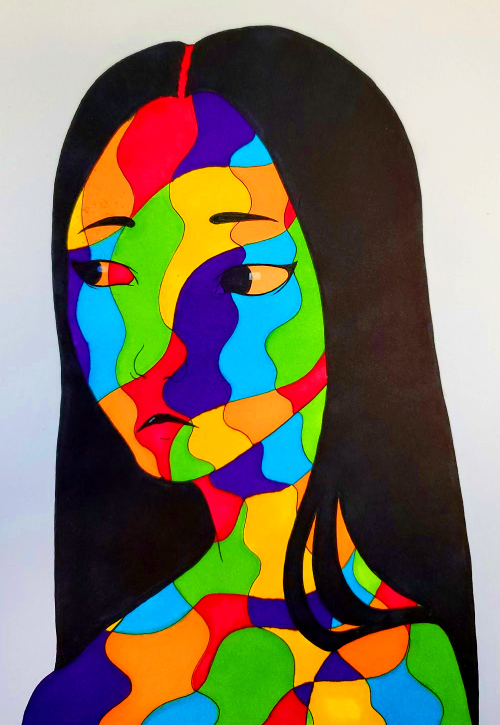
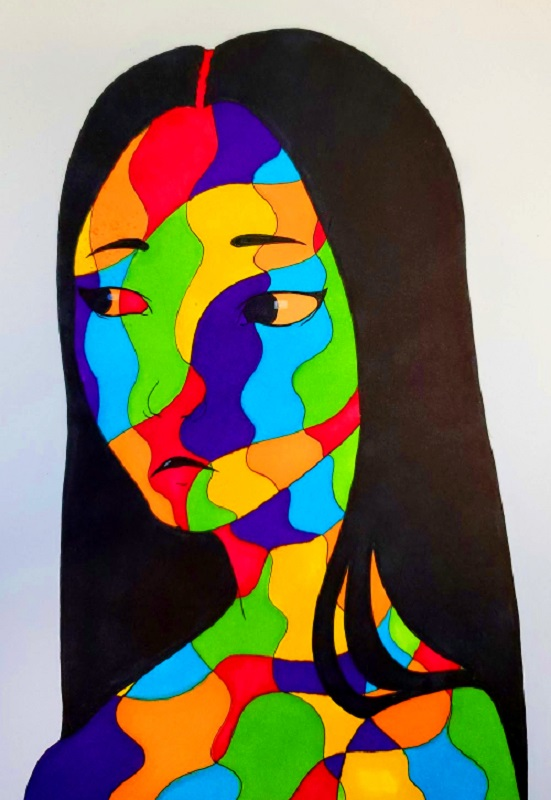
made artpage display look a a bit better

diff --git a/artpage.html b/artpage.html
@@ -23,8 +23,7 @@
 			<img src = "Color_Me_Stoked.jpg" alt="Color me stoked"/>
 			
 			<img src = "The_King.jpg" alt="The King"/>
-		</div>
-		<div class="column">
+		
 			<img src = "BunnyGirl.jpg" alt="Bunny Girl"/>
 	
 			<img src = "Kismet.jpg" alt="Kismet, the Goddess Of Fate"/>
@@ -33,7 +32,7 @@
 			
 			<img src = "Yagi.jpg" alt="Yagi, the Protector of Earth"/>
 			
-			<img src = "Remedy.png" alt="Remedy the Mermaid"/>
+			<img src = "Remedy.jpg" alt="Remedy the Mermaid"/>
 		</div>
 	</div>
 	

diff --git a/myStyleArtpage.css b/myStyleArtpage.css
@@ -1,5 +1,6 @@
 body
 	{
+		background-image: url("Light_Purple_Lines_Wallpaper-1.jpg");
 		color: #4b3c8f;
 		background-color: #a192e3;
 		font-family: "Verdana";
@@ -20,7 +21,11 @@ h5
 		color: #4b3c8f;
 	}
 
-
+img
+	{
+		border-radius: 8px;
+		border: 3px solid #4b3c8f; 
+	}
 	
 .row 
 	{
